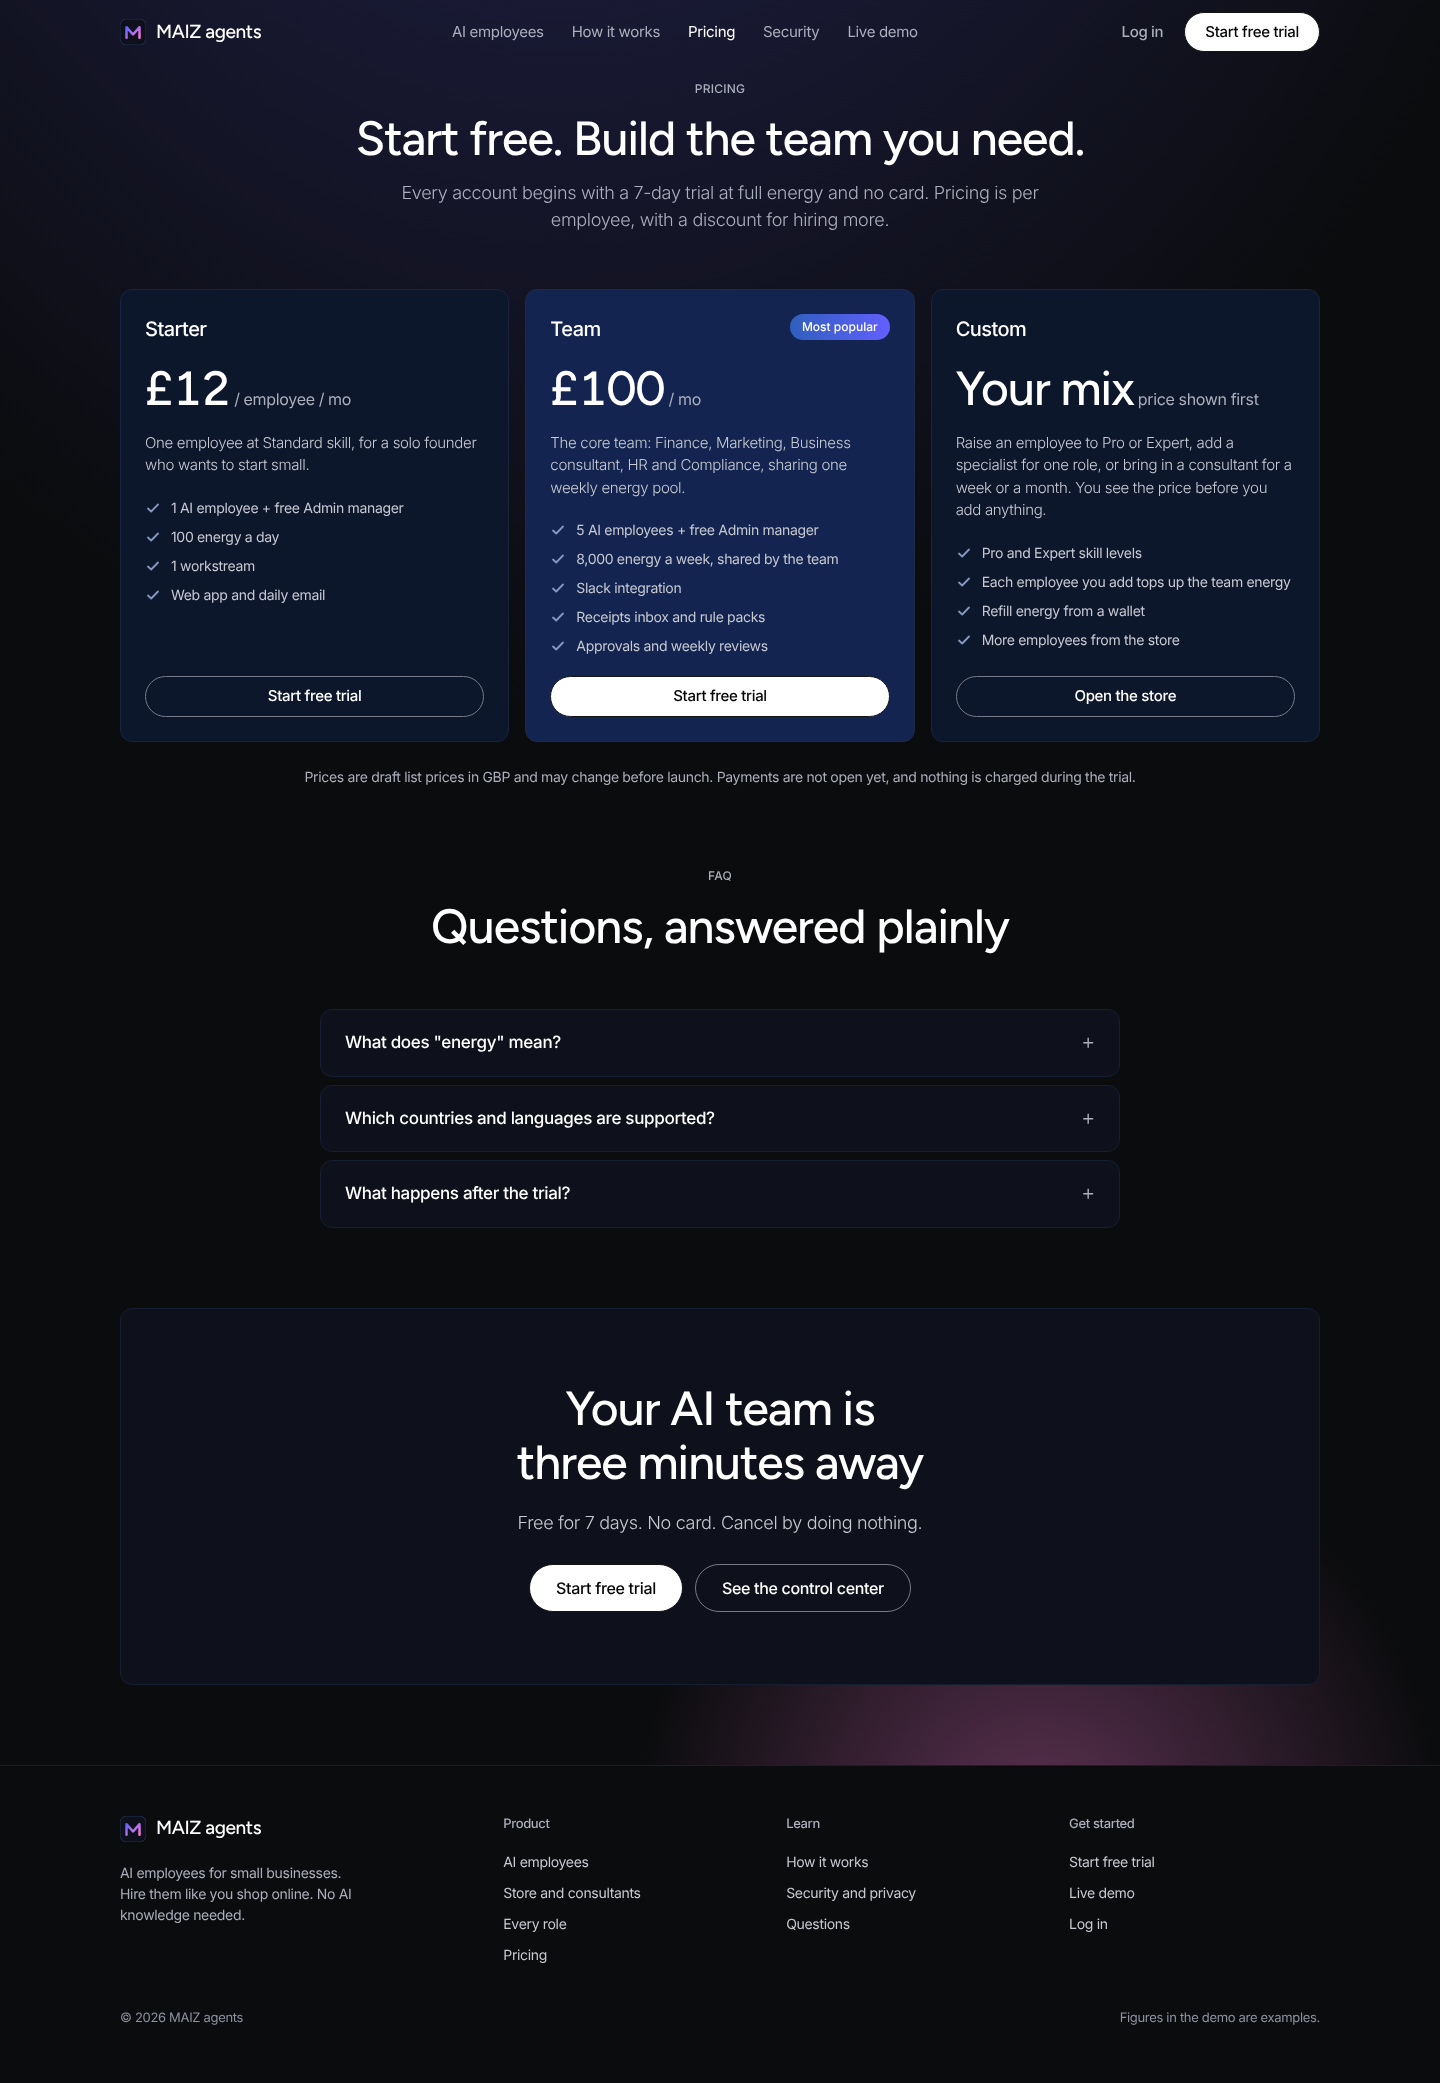
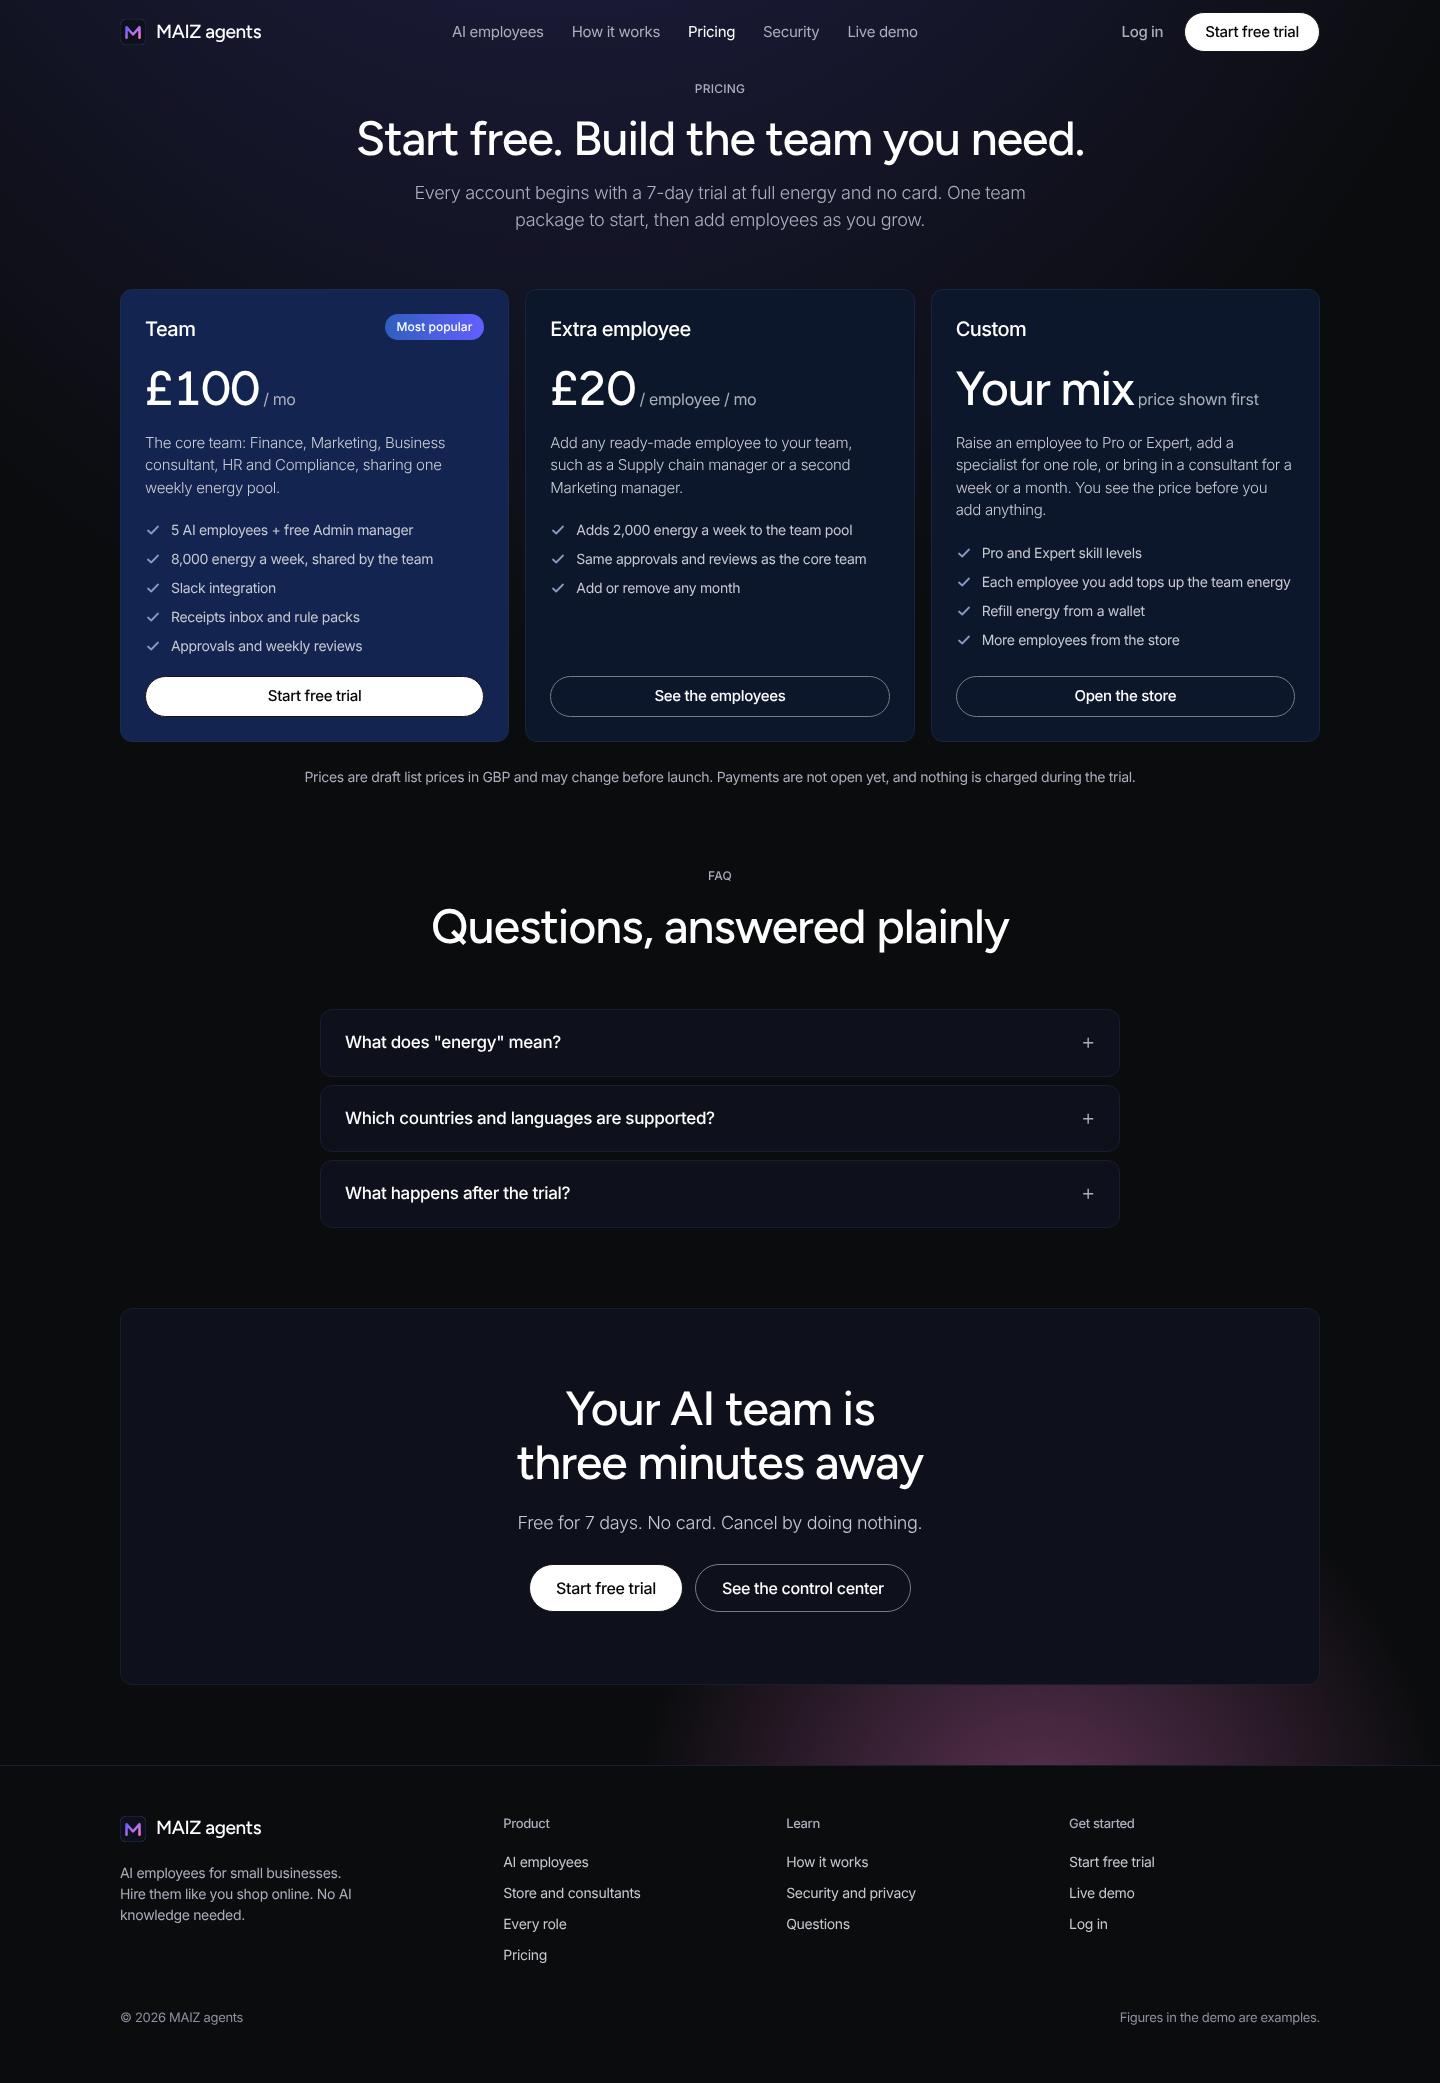
feat: extra employees £20 with 2,000 weekly energy; drop the £12 one-employee plan
Atif set £100 as the starting package, so the £12 single-employee card is
replaced by an Extra employee card. Add-on employees now cost £20 a month
and add 2,000 energy a week to the team pool.

Claude-Session: https://claude.ai/code/session_01DQV5ceoKsFhpRyTm6rqEq4

Changed region(s): [[0.0625, 0.0936, 0.6562, 0.3745]]

diff --git a/web/pricing.html b/web/pricing.html
@@ -12,17 +12,10 @@
     <div class="sec-head">
       <span class="eyebrow">Pricing</span>
       <h1>Start free. Build the team you need.</h1>
-      <p>Every account begins with a 7-day trial at full energy and no card. Pricing is per employee, with a discount for hiring more.</p>
+      <p>Every account begins with a 7-day trial at full energy and no card. One team package to start, then add employees as you grow.</p>
     </div>
     <h2 class="sr-only">Plans</h2>
     <div class="pricing">
-      <div class="card tier">
-        <h3>Starter</h3>
-        <div class="price"><span data-price="addOnEmployeeMonthlyGbp">£12</span><small>/ employee / mo</small></div>
-        <p class="blurb">One employee at Standard skill, for a solo founder who wants to start small.</p>
-        <ul class="checks"><li><svg viewBox="0 0 16 16" fill="none" stroke="currentColor" stroke-width="1.8" stroke-linecap="round" stroke-linejoin="round" aria-hidden="true"><path d="M3 8.5l3.2 3L13 4.5"/></svg><span>1 AI employee + free Admin manager</span></li><li><svg viewBox="0 0 16 16" fill="none" stroke="currentColor" stroke-width="1.8" stroke-linecap="round" stroke-linejoin="round" aria-hidden="true"><path d="M3 8.5l3.2 3L13 4.5"/></svg><span>100 energy a day</span></li><li><svg viewBox="0 0 16 16" fill="none" stroke="currentColor" stroke-width="1.8" stroke-linecap="round" stroke-linejoin="round" aria-hidden="true"><path d="M3 8.5l3.2 3L13 4.5"/></svg><span>1 workstream</span></li><li><svg viewBox="0 0 16 16" fill="none" stroke="currentColor" stroke-width="1.8" stroke-linecap="round" stroke-linejoin="round" aria-hidden="true"><path d="M3 8.5l3.2 3L13 4.5"/></svg><span>Web app and daily email</span></li></ul>
-        <a class="btn btn-ghost btn-block" href="/onboarding.html">Start free trial</a>
-      </div>
       <div class="card card-hi tier">
         <span class="badge badge-grad">Most popular</span>
         <h3>Team</h3>
@@ -30,6 +23,13 @@
         <p class="blurb">The core team: Finance, Marketing, Business consultant, HR and Compliance, sharing one weekly energy pool.</p>
         <ul class="checks"><li><svg viewBox="0 0 16 16" fill="none" stroke="currentColor" stroke-width="1.8" stroke-linecap="round" stroke-linejoin="round" aria-hidden="true"><path d="M3 8.5l3.2 3L13 4.5"/></svg><span>5 AI employees + free Admin manager</span></li><li><svg viewBox="0 0 16 16" fill="none" stroke="currentColor" stroke-width="1.8" stroke-linecap="round" stroke-linejoin="round" aria-hidden="true"><path d="M3 8.5l3.2 3L13 4.5"/></svg><span>8,000 energy a week, shared by the team</span></li><li><svg viewBox="0 0 16 16" fill="none" stroke="currentColor" stroke-width="1.8" stroke-linecap="round" stroke-linejoin="round" aria-hidden="true"><path d="M3 8.5l3.2 3L13 4.5"/></svg><span>Slack integration</span></li><li><svg viewBox="0 0 16 16" fill="none" stroke="currentColor" stroke-width="1.8" stroke-linecap="round" stroke-linejoin="round" aria-hidden="true"><path d="M3 8.5l3.2 3L13 4.5"/></svg><span>Receipts inbox and rule packs</span></li><li><svg viewBox="0 0 16 16" fill="none" stroke="currentColor" stroke-width="1.8" stroke-linecap="round" stroke-linejoin="round" aria-hidden="true"><path d="M3 8.5l3.2 3L13 4.5"/></svg><span>Approvals and weekly reviews</span></li></ul>
         <a class="btn btn-primary btn-block" href="/onboarding.html">Start free trial</a>
+      </div>
+      <div class="card tier">
+        <h3>Extra employee</h3>
+        <div class="price"><span data-price="addOnEmployeeMonthlyGbp">£20</span><small>/ employee / mo</small></div>
+        <p class="blurb">Add any ready-made employee to your team, such as a Supply chain manager or a second Marketing manager.</p>
+        <ul class="checks"><li><svg viewBox="0 0 16 16" fill="none" stroke="currentColor" stroke-width="1.8" stroke-linecap="round" stroke-linejoin="round" aria-hidden="true"><path d="M3 8.5l3.2 3L13 4.5"/></svg><span>Adds 2,000 energy a week to the team pool</span></li><li><svg viewBox="0 0 16 16" fill="none" stroke="currentColor" stroke-width="1.8" stroke-linecap="round" stroke-linejoin="round" aria-hidden="true"><path d="M3 8.5l3.2 3L13 4.5"/></svg><span>Same approvals and reviews as the core team</span></li><li><svg viewBox="0 0 16 16" fill="none" stroke="currentColor" stroke-width="1.8" stroke-linecap="round" stroke-linejoin="round" aria-hidden="true"><path d="M3 8.5l3.2 3L13 4.5"/></svg><span>Add or remove any month</span></li></ul>
+        <a class="btn btn-ghost btn-block" href="/employees.html#store">See the employees</a>
       </div>
       <div class="card tier">
         <h3>Custom</h3>

diff --git a/web/index.html b/web/index.html
@@ -184,16 +184,9 @@
     <div class="sec-head">
       <span class="eyebrow">Pricing</span>
       <h2>Start free. Build the team you need.</h2>
-      <p>Every account begins with a 7-day trial at full energy and no card. Pricing is per employee, with a discount for hiring more.</p>
+      <p>Every account begins with a 7-day trial at full energy and no card. One team package to start, then add employees as you grow.</p>
     </div>
     <div class="pricing">
-      <div class="card tier">
-        <h3>Starter</h3>
-        <div class="price">£12<small>/ employee / mo</small></div>
-        <p class="blurb">One employee at Standard skill, for a solo founder who wants to start small.</p>
-        <ul class="checks"><li><svg viewBox="0 0 16 16" fill="none" stroke="currentColor" stroke-width="1.8" stroke-linecap="round" stroke-linejoin="round" aria-hidden="true"><path d="M3 8.5l3.2 3L13 4.5"/></svg><span>1 AI employee + free Admin manager</span></li><li><svg viewBox="0 0 16 16" fill="none" stroke="currentColor" stroke-width="1.8" stroke-linecap="round" stroke-linejoin="round" aria-hidden="true"><path d="M3 8.5l3.2 3L13 4.5"/></svg><span>100 energy a day</span></li><li><svg viewBox="0 0 16 16" fill="none" stroke="currentColor" stroke-width="1.8" stroke-linecap="round" stroke-linejoin="round" aria-hidden="true"><path d="M3 8.5l3.2 3L13 4.5"/></svg><span>1 workstream</span></li><li><svg viewBox="0 0 16 16" fill="none" stroke="currentColor" stroke-width="1.8" stroke-linecap="round" stroke-linejoin="round" aria-hidden="true"><path d="M3 8.5l3.2 3L13 4.5"/></svg><span>Web app and daily email</span></li></ul>
-        <a class="btn btn-ghost btn-block" href="/onboarding.html">Start free trial</a>
-      </div>
       <div class="card card-hi tier">
         <span class="badge badge-grad">Most popular</span>
         <h3>Team</h3>
@@ -201,6 +194,13 @@
         <p class="blurb">The core team: Finance, Marketing, Business consultant, HR and Compliance, sharing one weekly energy pool.</p>
         <ul class="checks"><li><svg viewBox="0 0 16 16" fill="none" stroke="currentColor" stroke-width="1.8" stroke-linecap="round" stroke-linejoin="round" aria-hidden="true"><path d="M3 8.5l3.2 3L13 4.5"/></svg><span>5 AI employees + free Admin manager</span></li><li><svg viewBox="0 0 16 16" fill="none" stroke="currentColor" stroke-width="1.8" stroke-linecap="round" stroke-linejoin="round" aria-hidden="true"><path d="M3 8.5l3.2 3L13 4.5"/></svg><span>8,000 energy a week, shared by the team</span></li><li><svg viewBox="0 0 16 16" fill="none" stroke="currentColor" stroke-width="1.8" stroke-linecap="round" stroke-linejoin="round" aria-hidden="true"><path d="M3 8.5l3.2 3L13 4.5"/></svg><span>Slack integration</span></li><li><svg viewBox="0 0 16 16" fill="none" stroke="currentColor" stroke-width="1.8" stroke-linecap="round" stroke-linejoin="round" aria-hidden="true"><path d="M3 8.5l3.2 3L13 4.5"/></svg><span>Receipts inbox and rule packs</span></li><li><svg viewBox="0 0 16 16" fill="none" stroke="currentColor" stroke-width="1.8" stroke-linecap="round" stroke-linejoin="round" aria-hidden="true"><path d="M3 8.5l3.2 3L13 4.5"/></svg><span>Approvals and weekly reviews</span></li></ul>
         <a class="btn btn-primary btn-block" href="/onboarding.html">Start free trial</a>
+      </div>
+      <div class="card tier">
+        <h3>Extra employee</h3>
+        <div class="price">£20<small>/ employee / mo</small></div>
+        <p class="blurb">Add any ready-made employee to your team, such as a Supply chain manager or a second Marketing manager.</p>
+        <ul class="checks"><li><svg viewBox="0 0 16 16" fill="none" stroke="currentColor" stroke-width="1.8" stroke-linecap="round" stroke-linejoin="round" aria-hidden="true"><path d="M3 8.5l3.2 3L13 4.5"/></svg><span>Adds 2,000 energy a week to the team pool</span></li><li><svg viewBox="0 0 16 16" fill="none" stroke="currentColor" stroke-width="1.8" stroke-linecap="round" stroke-linejoin="round" aria-hidden="true"><path d="M3 8.5l3.2 3L13 4.5"/></svg><span>Same approvals and reviews as the core team</span></li><li><svg viewBox="0 0 16 16" fill="none" stroke="currentColor" stroke-width="1.8" stroke-linecap="round" stroke-linejoin="round" aria-hidden="true"><path d="M3 8.5l3.2 3L13 4.5"/></svg><span>Add or remove any month</span></li></ul>
+        <a class="btn btn-ghost btn-block" href="/employees.html#store">See the employees</a>
       </div>
       <div class="card tier">
         <h3>Custom</h3>

diff --git a/test/pricing-energy.test.ts b/test/pricing-energy.test.ts
@@ -4,7 +4,8 @@ import { noEnergyMessage } from "../src/modules/channels/index.js";
 import { CATALOGUE } from "../src/modules/store/cart.js";
 
 describe("launch prices and team energy", () => {
-  it("starts at £100 a month with 8,000 energy a week shared by the team", () => {
+  it("starts at £100 a month with 8,000 energy a week shared by the team, extra employees £20 with 2,000 more", () => {
+    expect(DEFAULT_GENERAL).toMatchObject({ addOnEmployeeMonthlyGbp: 20, addOnWeeklyEnergy: 2_000 });
     expect(DEFAULT_GENERAL).toMatchObject({ basicPackageMonthlyGbp: 100, weeklyTeamEnergy: 8_000, dailyTeamCeiling: 3_000, trialTeamEnergy: 3_000 });
   });
 
@@ -13,7 +14,7 @@ describe("launch prices and team energy", () => {
     const addOn = CATALOGUE.find((i) => i.kind === "employee")!;
     const standard = CATALOGUE.find((i) => i.kind === "specialist" && i.tier === "standard")!;
     const premium = CATALOGUE.find((i) => i.kind === "specialist" && i.tier === "premium")!;
-    expect(book.weeklyEnergyFor(addOn.key)).toBe(1_000);
+    expect(book.weeklyEnergyFor(addOn.key)).toBe(2_000);
     expect(book.weeklyEnergyFor(standard.key)).toBe(1_500);
     expect(book.weeklyEnergyFor(premium.key)).toBe(2_500);
     expect(book.weeklyEnergyFor("finance-manager")).toBe(0);

diff --git a/test/owner-admin.test.ts b/test/owner-admin.test.ts
@@ -41,11 +41,11 @@ describe("prices and packages", () => {
     const book = (await s.call("GET", "/api/owner/prices", undefined, s.owner())).body as any;
     const addOn = book.items.find((i: any) => i.kind === "employee");
     const pass = book.items.find((i: any) => i.kind === "consultant");
-    expect(addOn.priceGbp).toBe(12);
+    expect(addOn.priceGbp).toBe(20);
 
     const r = await s.call("POST", "/api/owner/prices/changes", { general: { addOnEmployeeMonthlyGbp: 15 }, items: { [pass.key]: { priceGbp: 99, energy: 5000 } }, note: "Launch pricing" }, s.owner());
     expect(r.status).toBe(201);
-    expect((r.body as any).change.from).toMatchObject({ "general.addOnEmployeeMonthlyGbp": 12, [`items.${pass.key}.priceGbp`]: pass.priceGbp });
+    expect((r.body as any).change.from).toMatchObject({ "general.addOnEmployeeMonthlyGbp": 20, [`items.${pass.key}.priceGbp`]: pass.priceGbp });
 
     const store = (await s.call("GET", "/api/store")).body as any;
     expect(store.catalogue.find((i: any) => i.key === addOn.key).priceGbp).toBe(15);

diff --git a/web/src/owner-prices.ts b/web/src/owner-prices.ts
@@ -32,8 +32,8 @@ const GENERAL: [keyof GeneralPrices, string, string, string][] = [
 function demo(): Book {
   // Demo copy of the launch defaults (src/modules/pricing DEFAULT_GENERAL); importing that module would pull server code in.
   const general: GeneralPrices = {
-    basicPackageMonthlyGbp: 100, addOnEmployeeMonthlyGbp: 12, specialistStandardMonthlyGbp: 19, specialistPremiumMonthlyGbp: 29, overageGbpPer100Energy: 1,
-    trialDays: 7, trialTeamEnergy: 3_000, weeklyTeamEnergy: 8_000, dailyTeamCeiling: 3_000, addOnWeeklyEnergy: 1_000, specialistStandardWeeklyEnergy: 1_500, specialistPremiumWeeklyEnergy: 2_500,
+    basicPackageMonthlyGbp: 100, addOnEmployeeMonthlyGbp: 20, specialistStandardMonthlyGbp: 19, specialistPremiumMonthlyGbp: 29, overageGbpPer100Energy: 1,
+    trialDays: 7, trialTeamEnergy: 3_000, weeklyTeamEnergy: 8_000, dailyTeamCeiling: 3_000, addOnWeeklyEnergy: 2_000, specialistStandardWeeklyEnergy: 1_500, specialistPremiumWeeklyEnergy: 2_500,
   };
   return {
     general,

diff --git a/test/cart.test.ts b/test/cart.test.ts
@@ -14,9 +14,9 @@ describe("store cart", () => {
 
   it("splits monthly and one-off totals and merges repeated lines", () => {
     const q = quote([{ key: "supply-chain-manager", qty: 1 }, { key: "web-developer:sprint", qty: 2 }, { key: "web-developer:sprint", qty: 1 }]);
-    expect(q.monthlyGbp).toBe(12);
+    expect(q.monthlyGbp).toBe(20);
     expect(q.onceGbp).toBe(297);
-    expect(q.dueTodayGbp).toBe(309);
+    expect(q.dueTodayGbp).toBe(317);
     expect(q.lines.find((l) => l.key === "web-developer:sprint")?.qty).toBe(3);
   });
 

diff --git a/src/modules/store/cart.ts b/src/modules/store/cart.ts
@@ -57,7 +57,7 @@ export interface CatalogueItem {
 }
 
 /** Draft monthly prices. A ready-made add-on matches the Standard price on the pricing page. */
-export const MONTHLY_PRICE_GBP = { employee: 12, specialistStandard: 19, specialistPremium: 29 } as const;
+export const MONTHLY_PRICE_GBP = { employee: 20, specialistStandard: 19, specialistPremium: 29 } as const;
 export const MAX_QTY = 10;
 
 /** Ready-made employees that come with every package, so they are not sold in the store. */

diff --git a/src/modules/pricing/index.ts b/src/modules/pricing/index.ts
@@ -92,7 +92,7 @@ export const DEFAULT_GENERAL: GeneralPrices = {
   trialTeamEnergy: PLANS.trial!.weeklyTeamEnergy!,
   weeklyTeamEnergy: PLANS.starter!.weeklyTeamEnergy!,
   dailyTeamCeiling: PLANS.starter!.dailyTeamCeiling!,
-  addOnWeeklyEnergy: 1_000,
+  addOnWeeklyEnergy: 2_000,
   specialistStandardWeeklyEnergy: 1_500,
   specialistPremiumWeeklyEnergy: 2_500,
 };
